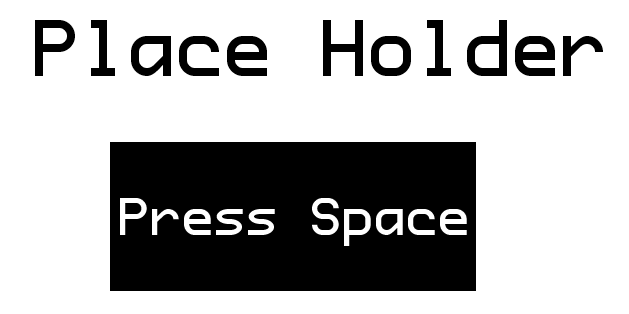
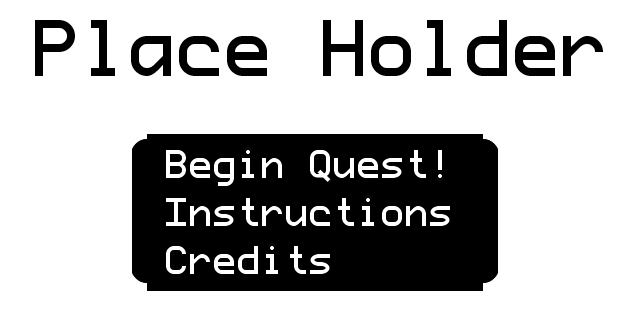
Continued work on the start screen menu.
Also added extra game states.

Changed region(s): [[0.151, 0.4013, 0.8156, 0.9459], [0.6948, 0.4873, 0.725, 0.5446]]

diff --git a/src/StartScreen.java b/src/StartScreen.java
@@ -12,10 +12,11 @@ import java.util.Calendar;
 import javax.imageio.ImageIO;
 
 class StartScreen implements CameraDrawable, KeyListener {
-    public int           posx, posy;
+    public int           forx, fory;
+    public int           backx, backy;
     public int           arrowx, arrowy;
     public int           STEP     = 50;
-    public Artifact      back;
+    public BufferedImage back;
     public BufferedImage arrow;
     public BufferedImage fore;
     public boolean       anim_done;
@@ -24,11 +25,14 @@ class StartScreen implements CameraDrawable, KeyListener {
     public StartScreen() {
         makeBackground();
         makeForground();
-        posx = G.WINDOWW / 2 - fore.getWidth() / 2;
-        posy = G.WINDOWH;
+        forx = G.WINDOWW / 2 - fore.getWidth() / 2;
+        fory = G.WINDOWH;
 
-        arrowx = G.WINDOWW / 4;
-        arrowy = posy + G.WINDOWH / 4;
+        backx = 0;
+        backy = 0;
+
+        arrowx = G.WINDOWW / 4 + 22;
+        arrowy = fory + G.WINDOWH / 4;
     }
 
     public void makeBackground() {
@@ -45,7 +49,7 @@ class StartScreen implements CameraDrawable, KeyListener {
             double seconds = cal.get(Calendar.HOUR_OF_DAY) * 60 * 60
                     + cal.get(Calendar.MINUTE) * 60 + cal.get(Calendar.SECOND);
             // seconds = 19 * 60 * 60; //Used only for testing purposes.
-            // Represents 7:00 pm
+            // Represents 7:00 PM
             double secsinday = 24 * 60 * 60;
             int scalar = (int) (seconds / secsinday * bg.getWidth());
 
@@ -57,7 +61,7 @@ class StartScreen implements CameraDrawable, KeyListener {
             g.setComposite(AlphaComposite.getInstance(AlphaComposite.SRC_OVER,
                     .30f));
             g.fillRect(0, 0, back.getWidth(), back.getHeight());
-            this.back = new Artifact(0, 0, back);
+            this.back = back;
         } catch (IOException e) {
             System.out.println(e.getLocalizedMessage());
             G.GAMESTATE = G.State.PLAY;
@@ -75,17 +79,17 @@ class StartScreen implements CameraDrawable, KeyListener {
     }
 
     public void update() {
-        if (posy > G.WINDOWH / 2 - fore.getHeight() / 2) {
-            posy -= 5;
-            arrowy = (posy + G.WINDOWH / 4) + (selected * STEP);
+        if (fory > G.WINDOWH / 2 - fore.getHeight() / 2) {
+            fory -= 5;
+            arrowy = (fory + G.WINDOWH / 4) + (selected * STEP);
         }
     }
 
     @Override
     public ArrayList<Artifact> getArtifacts() {
         ArrayList<Artifact> tmp = new ArrayList<Artifact>(3);
-        tmp.add(back);
-        tmp.add(new Artifact(posx, posy, fore));
+        tmp.add(new Artifact(0, 0, back));
+        tmp.add(new Artifact(forx, fory, fore));
         tmp.add(new Artifact(arrowx, arrowy, arrow));
         return tmp;
     }
@@ -99,18 +103,26 @@ class StartScreen implements CameraDrawable, KeyListener {
         case KeyEvent.VK_RIGHT:
             if (selected == 0)
                 G.GAMESTATE = G.State.PLAY;
+            else if (selected == 1)
+                G.GAMESTATE = G.State.HOWTO;
+            else if (selected == 2)
+                G.GAMESTATE = G.State.CREDITS;
             break;
         case KeyEvent.VK_S:
         case KeyEvent.VK_K:
         case KeyEvent.VK_DOWN:
             selected++;
-            arrowy = (posy + G.WINDOWH / 4) + (selected * STEP);
+            if (selected > 2)
+                selected = 0;
+            arrowy = (fory + G.WINDOWH / 4) + (selected * STEP);
             break;
         case KeyEvent.VK_W:
         case KeyEvent.VK_I:
         case KeyEvent.VK_UP:
             selected--;
-            arrowy = (posy + G.WINDOWH / 4) + (selected * STEP);
+            if (selected < 0)
+                selected = 2;
+            arrowy = (fory + G.WINDOWH / 4) + (selected * STEP);
             break;
         }
     }

diff --git a/src/GameLoop.java b/src/GameLoop.java
@@ -46,14 +46,20 @@ class GameLoop {
             case PAUSE:
                 break;
             case DEATH:
-                startset = levelset = false;
                 G.l.player.die();
-                G.GAMESTATE = G.State.STARTUP;
+                G.GAMESTATE = G.State.RESET;
                 break;
             case CREDITS:
+                G.GAMESTATE = G.State.RESET;
+                break;
+            case HOWTO:
+                G.GAMESTATE = G.State.RESET;
                 break;
             case END:
                 break;
+            case RESET:
+                startset = levelset = false;
+                G.GAMESTATE = G.State.STARTUP;
             }
             long endtime = System.currentTimeMillis();
 

diff --git a/src/G.java b/src/G.java
@@ -20,7 +20,7 @@ class G {
     public static int         WINDOWH = 600;
 
     public enum State {
-        STARTUP, METAMAP, SELECT, PLAY, PAUSE, DEATH, CREDITS, END
+        STARTUP, METAMAP, SELECT, PLAY, PAUSE, DEATH, CREDITS, HOWTO, END, RESET
     };
 
     public static State GAMESTATE = State.STARTUP;
